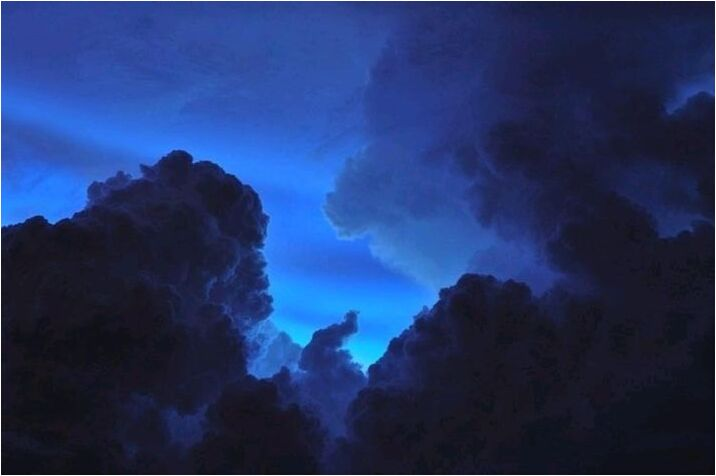
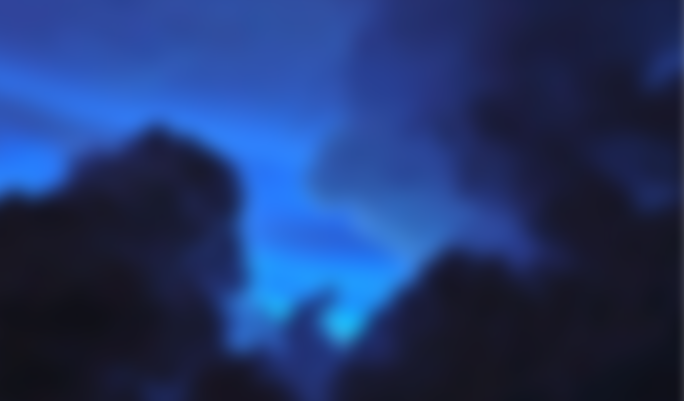
BackGround actualized

diff --git a/src/gui/app/page.tsx b/src/gui/app/page.tsx
@@ -3,10 +3,12 @@ import SearchBar from "@/components/SearchBar";
 
 export default function Home() {
   return (
-    <div className="relative w-full h-screen bg-cover bg-center" style={{backgroundImage: "url('./public/imagenFondoDora.p')"}}>
-       <div className="flex items-center justify-center min-h-screen">
-        <SearchBar />
-        <button className= "rounded-3xl bg-gray-800 text-white px-6 py-2 hover:bg-blue-400 hover:text-gray-900 transition h-14 ml-6">Upload </button>
+    <div className="relative w-full h-screen bg-cover bg-center opacity-45" style={{backgroundImage: "url('/imagenFondoDora.png')"}}>
+      <div>
+          <div className="flex items-center justify-center min-h-screen">
+          <SearchBar />
+            <button className= "rounded-3xl bg-gray-800 text-white px-6 py-2 hover:bg-blue-400 hover:text-gray-900 transition h-14 ml-6">Upload </button>
+          </div>
       </div>
     </div>
    

diff --git a/src/gui/components/SearchBar.tsx b/src/gui/components/SearchBar.tsx
@@ -2,8 +2,8 @@
 
 export default function SearchBar(){
     return(
-        <div className="flex border border-gray-700 rounded-3xl px-2 py-2 mb-2 w-224 h-14 bg-white/20 shadow-2xl ">
-            <input className="text-center w-220 focus:outline-none text-gray-700 mr-3.5" type = "text" placeholder = "Search a file..." />
-        </div>  
+        <div className="flex border border-gray-700 rounded-3xl px-2 py-2 mb-2 w-224 h-14 bg-white/40 shadow-2xl ">
+            <input className="text-center w-220 focus:outline-none text-gray-900 mr-3.5" type = "text" placeholder = "Search a file..." />
+        </div>
     )
 }
